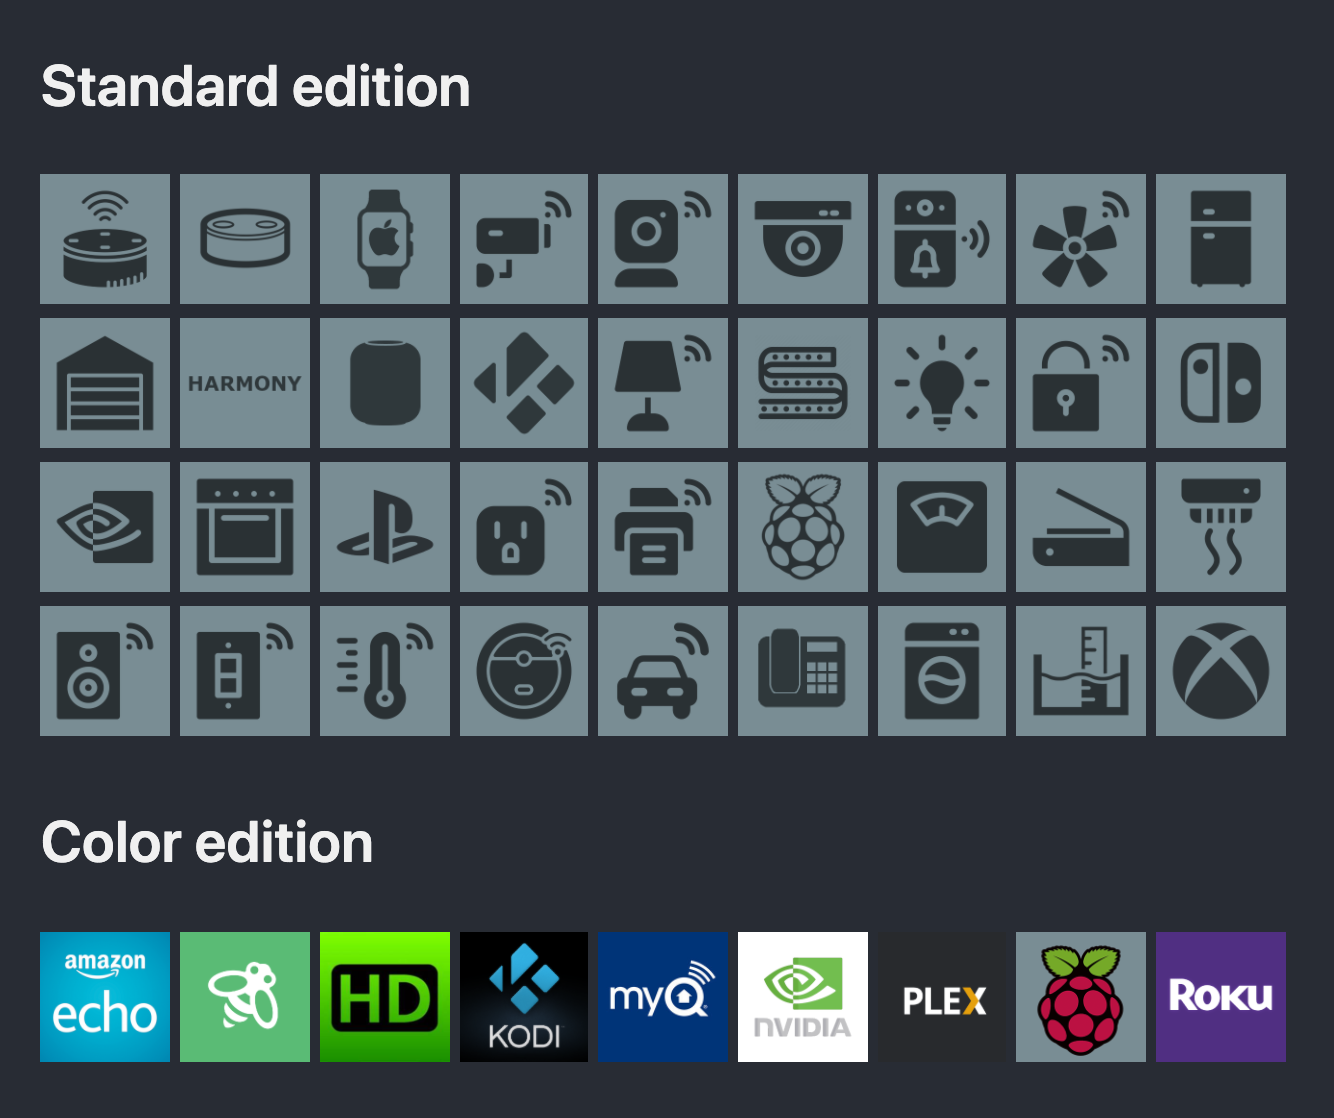
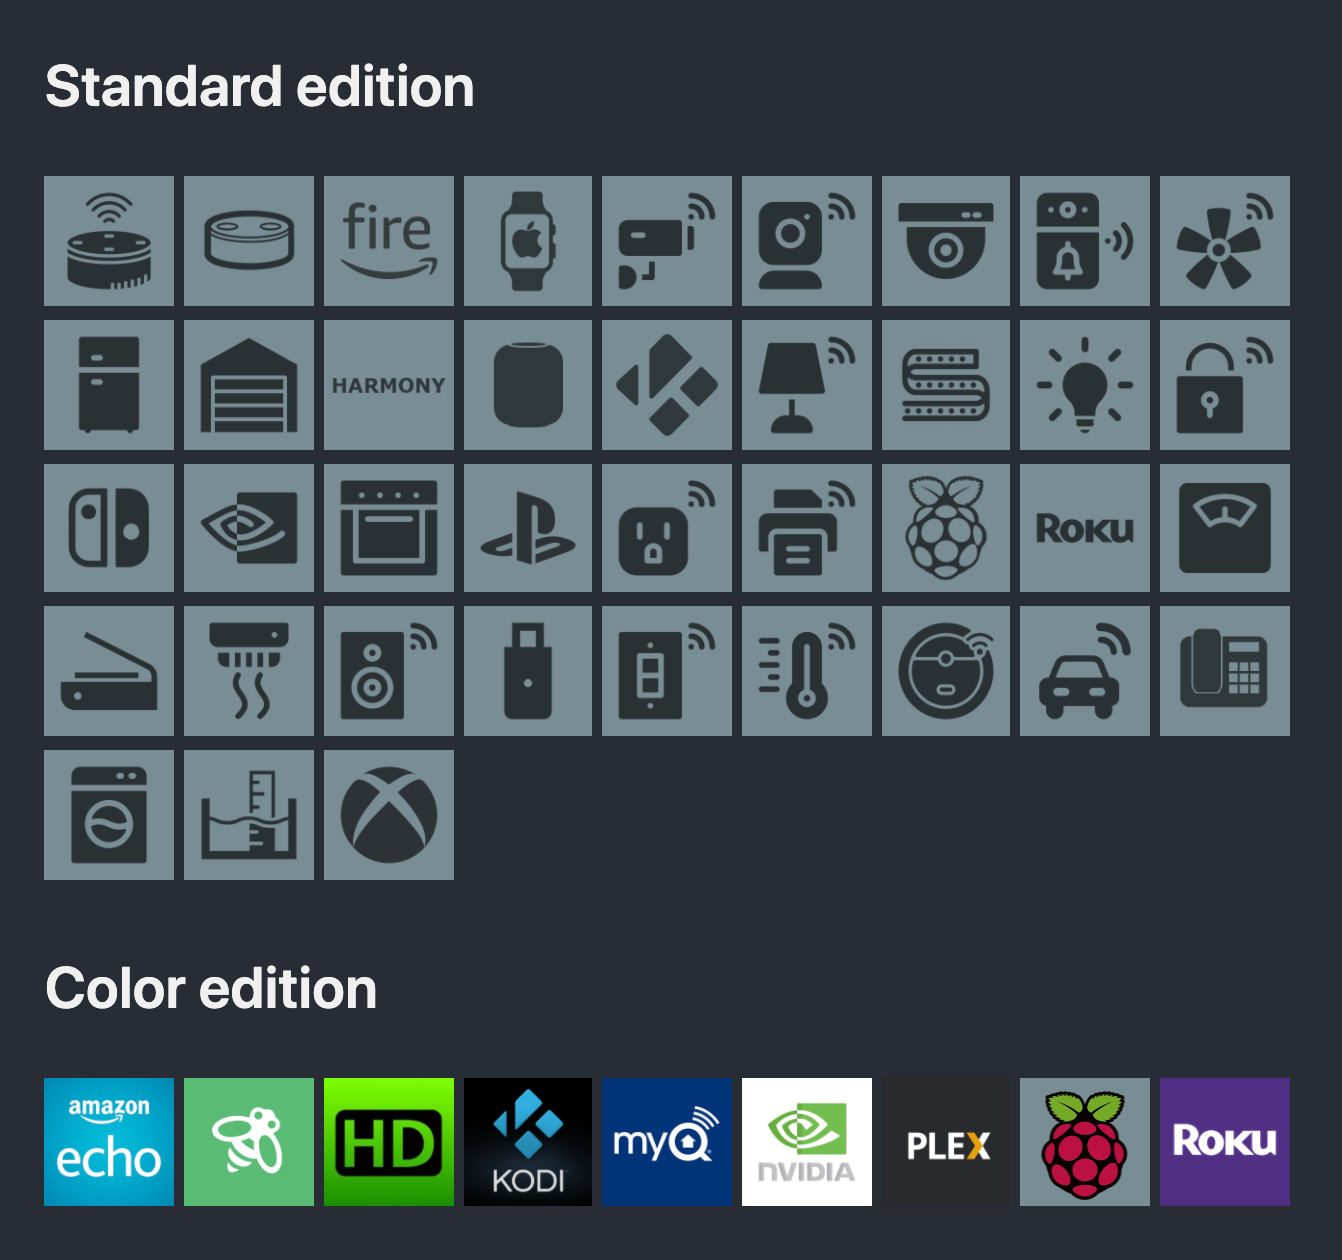
Add amazon_fire, roku, and stick

diff --git a/README.md b/README.md
@@ -8,6 +8,7 @@ An assortment of extra ASUS router icons.
 
 <img src="standard/amazon_echo_dot-2.png" width="54">
 <img src="standard/amazon_echo_dot-3.png" width="54">
+<img src="standard/amazon_fire.png" width="54">
 <img src="standard/apple_watch.png" width="54">
 <img src="standard/cctv-1.png" width="54">
 <img src="standard/cctv-2.png" width="54">
@@ -30,10 +31,12 @@ An assortment of extra ASUS router icons.
 <img src="standard/plug.png" width="54">
 <img src="standard/printer.png" width="54">
 <img src="standard/raspberry_pi.png" width="54">
+<img src="standard/roku.png" width="54">
 <img src="standard/scale.png" width="54">
 <img src="standard/scanner.png" width="54">
 <img src="standard/smoke_detector.png" width="54">
 <img src="standard/speaker.png" width="54">
+<img src="standard/stick.png" width="54">
 <img src="standard/switch.png" width="54">
 <img src="standard/thermostat.png" width="54">
 <img src="standard/vacuum_robot.png" width="54">
@@ -59,7 +62,7 @@ An assortment of extra ASUS router icons.
 
 ## Creating a new icon
 
-If you don't have Photoshop or similar, try using https://pixlr.com which is free.
+If you don't have Photoshop or similar, try using https://pixlr.com/x/ which is free.
 
 - Create a canvas size of `270x270`
 - Create a bottom layer and apply a solid background color of `#798D94`
